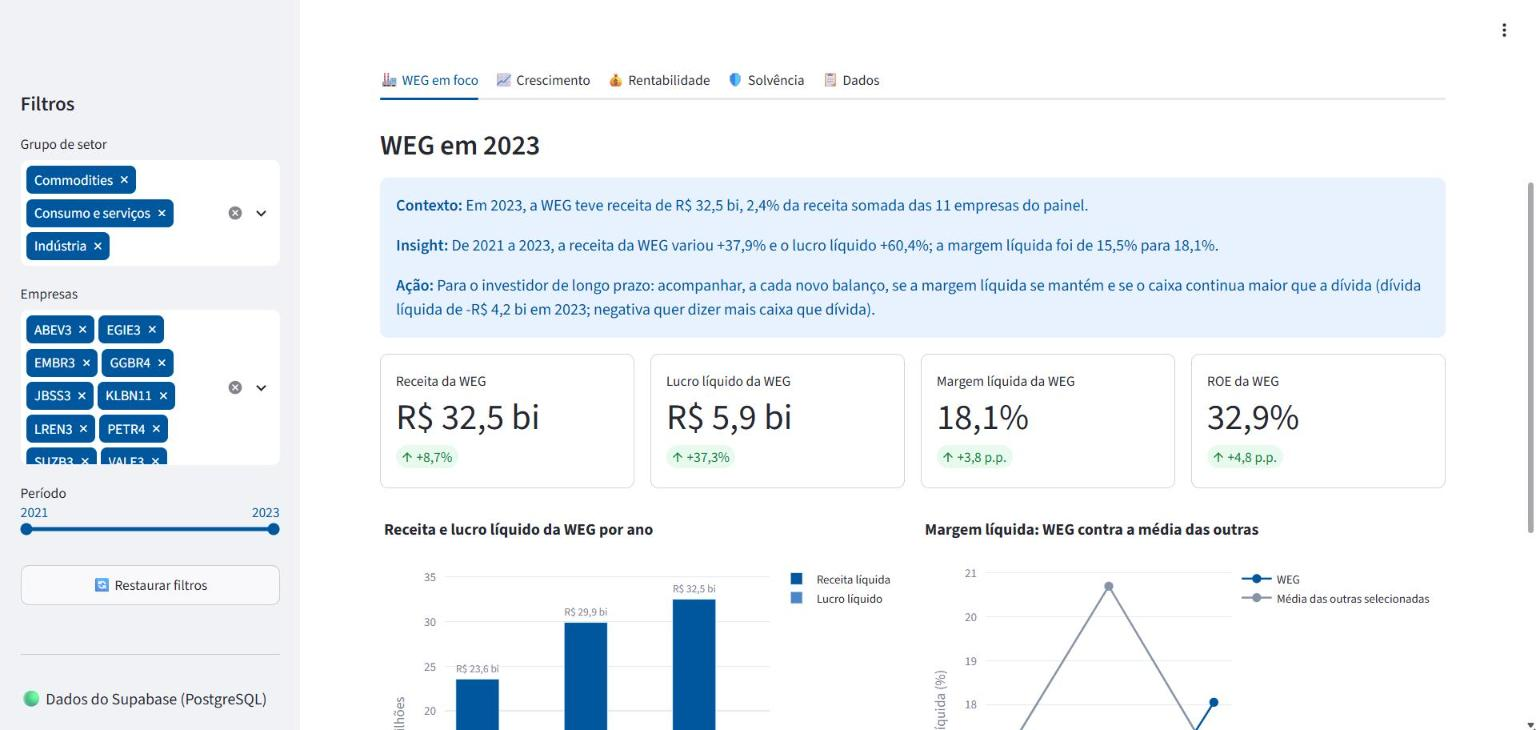
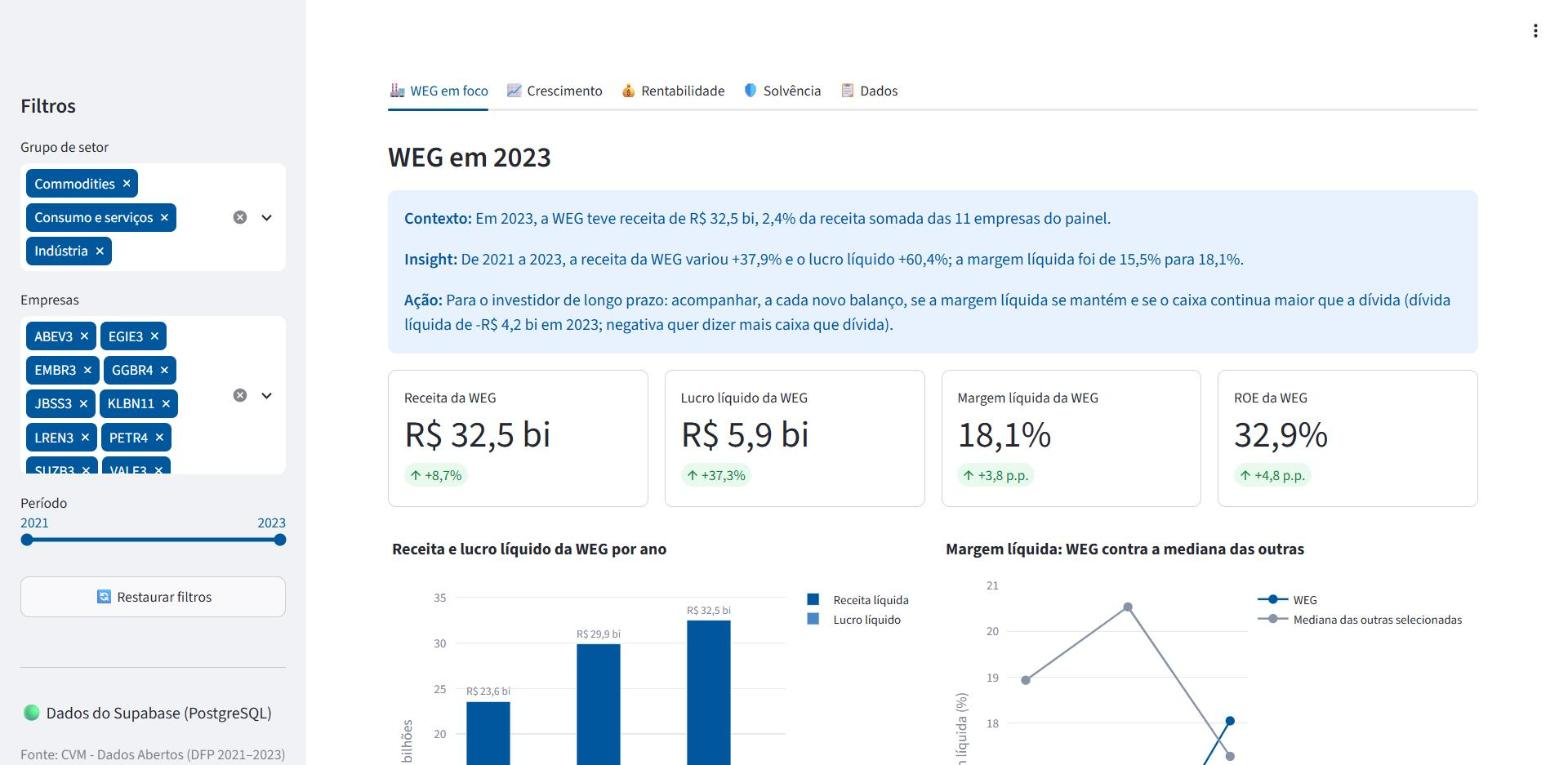
fix: compara a margem da weg com a mediana das outras empresas

diff --git a/app.py b/app.py
@@ -350,17 +350,17 @@ with aba_weg:
                       hovertemplate="<b>%{fullData.name}</b><br>%{x}: %{text}<extra></extra>")
     graf1.plotly_chart(ajustar_layout(fig), width="stretch")
 
-    # gráfico 2: margem líquida da WEG contra a média das outras empresas selecionadas
+    # gráfico 2: margem líquida da WEG contra a mediana das outras empresas selecionadas
     linhas = weg[["ano", "margem_liquida"]].assign(serie="WEG")
     outras = df_filtrado[df_filtrado["ticker"] != "WEGE3"]
     if not outras.empty:
-        media = outras.groupby("ano", as_index=False)["margem_liquida"].mean()
-        linhas = pd.concat([linhas, media.assign(serie="Média das outras selecionadas")])
+        mediana = outras.groupby("ano", as_index=False)["margem_liquida"].median()
+        linhas = pd.concat([linhas, mediana.assign(serie="Mediana das outras selecionadas")])
     linhas["margem_pct"] = linhas["margem_liquida"] * 100
     linhas["ano"] = linhas["ano"].astype(str)
     fig = px.line(linhas, x="ano", y="margem_pct", color="serie", markers=True,
-                  color_discrete_map={"WEG": COR_WEG, "Média das outras selecionadas": COR_OUTRAS},
-                  title="Margem líquida: WEG contra a média das outras",
+                  color_discrete_map={"WEG": COR_WEG, "Mediana das outras selecionadas": COR_OUTRAS},
+                  title="Margem líquida: WEG contra a mediana das outras",
                   labels={"ano": "Ano", "margem_pct": "Margem líquida (%)", "serie": ""})
     fig.update_traces(line_width=2, marker_size=9,
                       hovertemplate="<b>%{fullData.name}</b><br>%{x}: %{y:.1f}%<extra></extra>")

diff --git a/README.md b/README.md
@@ -178,7 +178,7 @@ Números do filtro padrão do app (11 empresas, 2021 a 2023), em reais, sem corr
 | EGIE3 | Consumo e serviços | R$ 12,5 bi | R$ 10,7 bi | -14,3% |
 | VALE3 | Commodities | R$ 293,5 bi | R$ 208,1 bi | -29,1% |
 
-**2. Retorno e margem.** Em 2023 o maior ROE foi da Engie (34,9%), e a WEG ficou em segundo lugar (32,9%), bem acima da mediana das 11 empresas (20,4%). O ROE da WEG subiu nos três anos: 26,1%, 28,0% e 32,9%. Já a margem líquida da WEG caiu de 15,5% para 14,3% em 2022 e subiu para 18,1% em 2023. Em 2021 e 2022 ela ficou abaixo da mediana das 11, e em 2023 a WEG ficou exatamente no meio (6ª de 11). Ou seja, a WEG está entre os maiores retornos sobre o patrimônio com uma margem líquida na média do grupo. A JBS teve prejuízo em 2023 (ROE de -1,6%).
+**2. Retorno e margem.** Em 2023 o maior ROE foi da Engie (34,9%), e a WEG ficou em segundo lugar (32,9%), bem acima da mediana das 11 empresas (20,4%). O ROE da WEG subiu nos três anos: 26,1%, 28,0% e 32,9%. Já a margem líquida da WEG caiu de 15,5% para 14,3% em 2022 e subiu para 18,1% em 2023. Em 2021 e 2022 ela ficou abaixo da mediana das 11, e em 2023 a WEG ficou exatamente no meio (6ª de 11). Ou seja, a WEG está entre os maiores retornos sobre o patrimônio com uma margem líquida no meio do grupo. A JBS teve prejuízo em 2023 (ROE de -1,6%).
 
 **3. Margem EBIT por grupo.** Juntando os três anos, a mediana da margem EBIT foi de 32,4% em commodities, 23,3% em consumo e serviços e 11,4% na indústria. O grupo indústria tem só duas empresas, então a mediana fica entre elas: a WEG teve margem EBIT de 16,9% a 19,9%, e a Embraer de -2,4% a 5,8%. As margens variam muito dentro de cada grupo; em commodities, por exemplo, vão de 1,5% (JBS em 2023) a 48,2% (Vale em 2021).
 
@@ -221,7 +221,7 @@ Guia de navegação:
 1. **Barra lateral:** escolha os grupos de setor (Indústria, Commodities, Consumo e serviços). A lista de empresas muda junto com os grupos (filtro cruzado), e dá para tirar ou pôr empresas uma a uma. Escolha o período, de 2021 a 2023. O botão "Restaurar filtros" volta tudo ao padrão. Embaixo aparece de onde vieram os dados: 🟢 Supabase (PostgreSQL) ou 🟡 CSV local, quando o banco não responde.
 2. **Topo:** 4 KPIs da carteira filtrada no último ano do período (receita líquida total, lucro líquido total, ROE médio e liquidez corrente média), com a variação contra o ano anterior.
 3. **Abas:** cada uma abre com um texto curto em três partes (Contexto, Insight e Ação), com os números calculados a partir dos filtros.
-   - **WEG em foco:** 4 indicadores da WEG, receita e lucro da WEG por ano e a margem líquida da WEG contra a média das outras empresas selecionadas.
+   - **WEG em foco:** 4 indicadores da WEG, receita e lucro da WEG por ano e a margem líquida da WEG contra a mediana das outras empresas selecionadas.
    - **Crescimento:** receita por empresa e ano, ranking do crescimento da receita no período e mapa de árvore da receita do último ano por grupo, setor e empresa.
    - **Rentabilidade:** margem líquida x ROE em quadrantes (o tamanho da bolha é a receita, as linhas tracejadas são as medianas) e boxplot da margem EBIT por grupo.
    - **Solvência:** liquidez corrente com a linha de 1,5x, dívida líquida com a alavancagem escrita em cada barra e a tabela das empresas em alerta, com o motivo.
